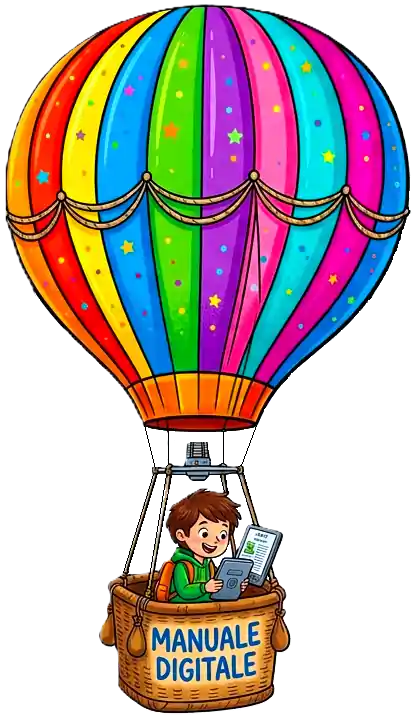
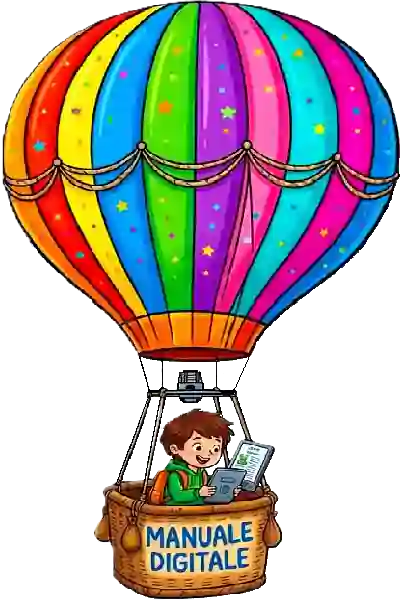
Add files via upload

Changed region(s): [[0.0, 0.0, 1.0, 1.0]]

diff --git a/index.html b/index.html
@@ -56,7 +56,7 @@
         <div class="balloon-row">
           <a href="https://cristian-tr.github.io/School-Library/" target="_blank" class="balloon-link">
             <!-- Imaginea balonului -->
-            <img id="balloon" src="./baloon.webp" alt="School Library Link" width="162" height="280">
+            <img id="balloon" src="./baloon.webp" alt="School Library Link" width="173" height="260">
 
             <!-- Butonul tău stilizat (acum în interiorul aceleiași legături) -->
             <div id="buttonLinks">SCHOOL LIBRARY</div>

diff --git a/style.css b/style.css
@@ -194,8 +194,8 @@ h5 {
 	align-items: center;
 	justify-content: center;
 	width: 100%;
-	margin-top: 20px;
-	margin-bottom: 40px;
+	margin-top: 17px;
+	margin-bottom: 1px;
 }
 
 .balloon-link {
@@ -226,7 +226,7 @@ h5 {
 		inset 0 0.25em 0.3em rgba(255, 255, 255, 0.35),
 		inset 0 -0.25em 0.3em rgba(0, 0, 0, 0.5);
 	cursor: pointer;
-	margin: 25px auto 0 auto;
+	margin: 17px auto 0 auto;
 	padding-bottom: 4px;
 	text-decoration: none;
 	transition: transform 0.2s ease, box-shadow 0.2s ease;
